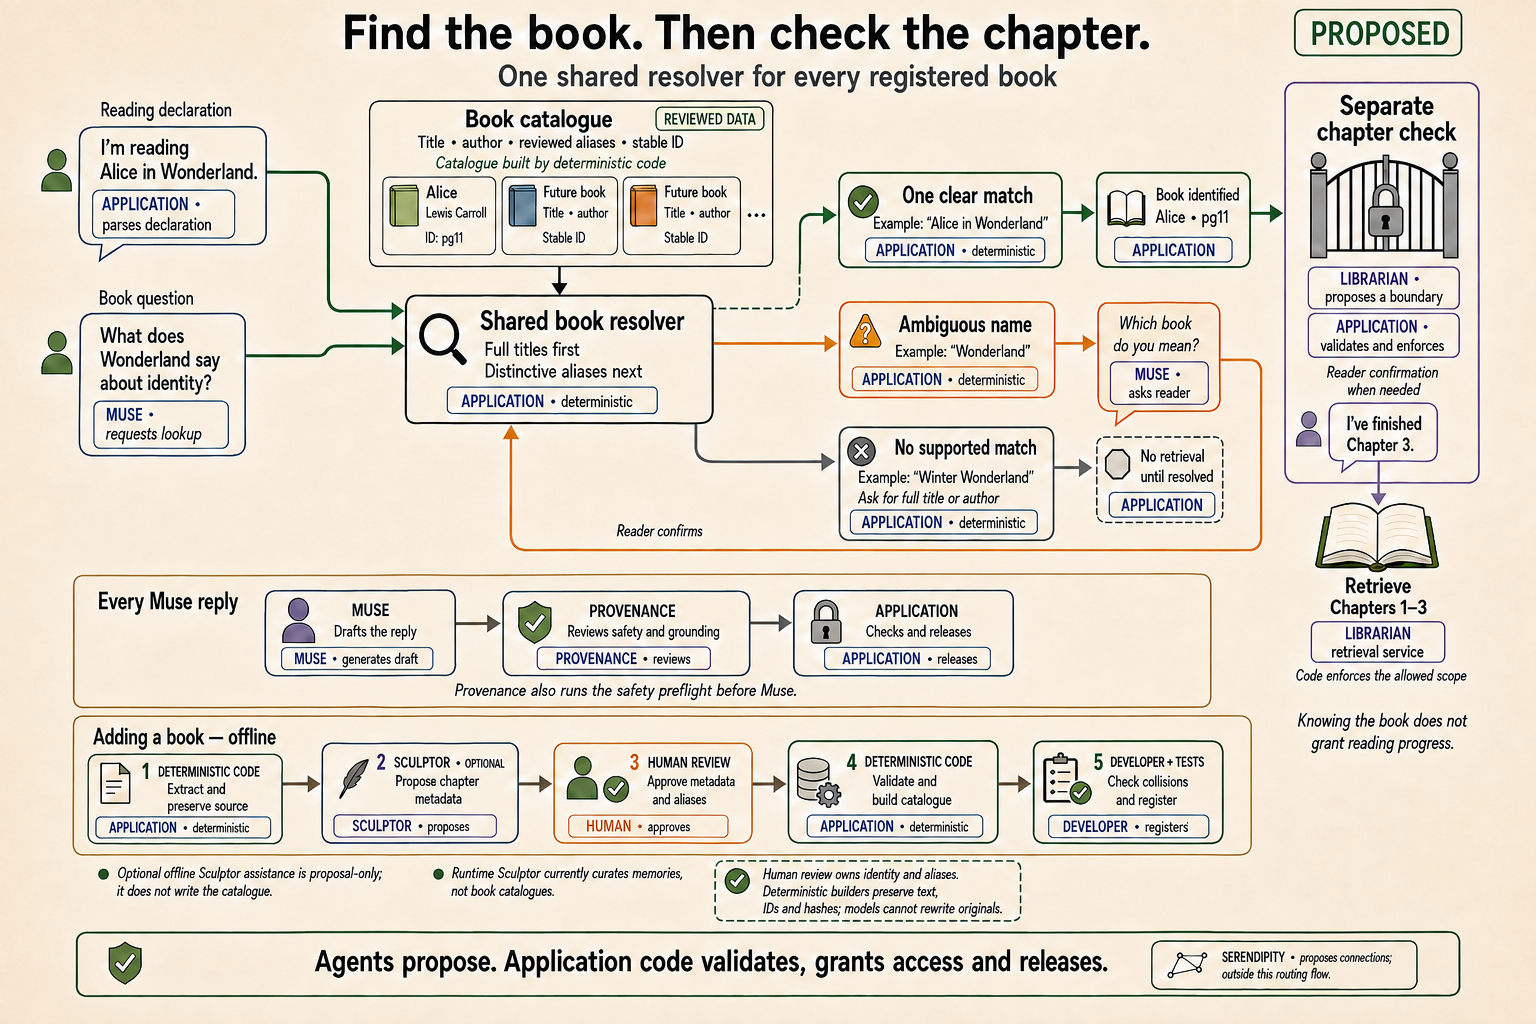
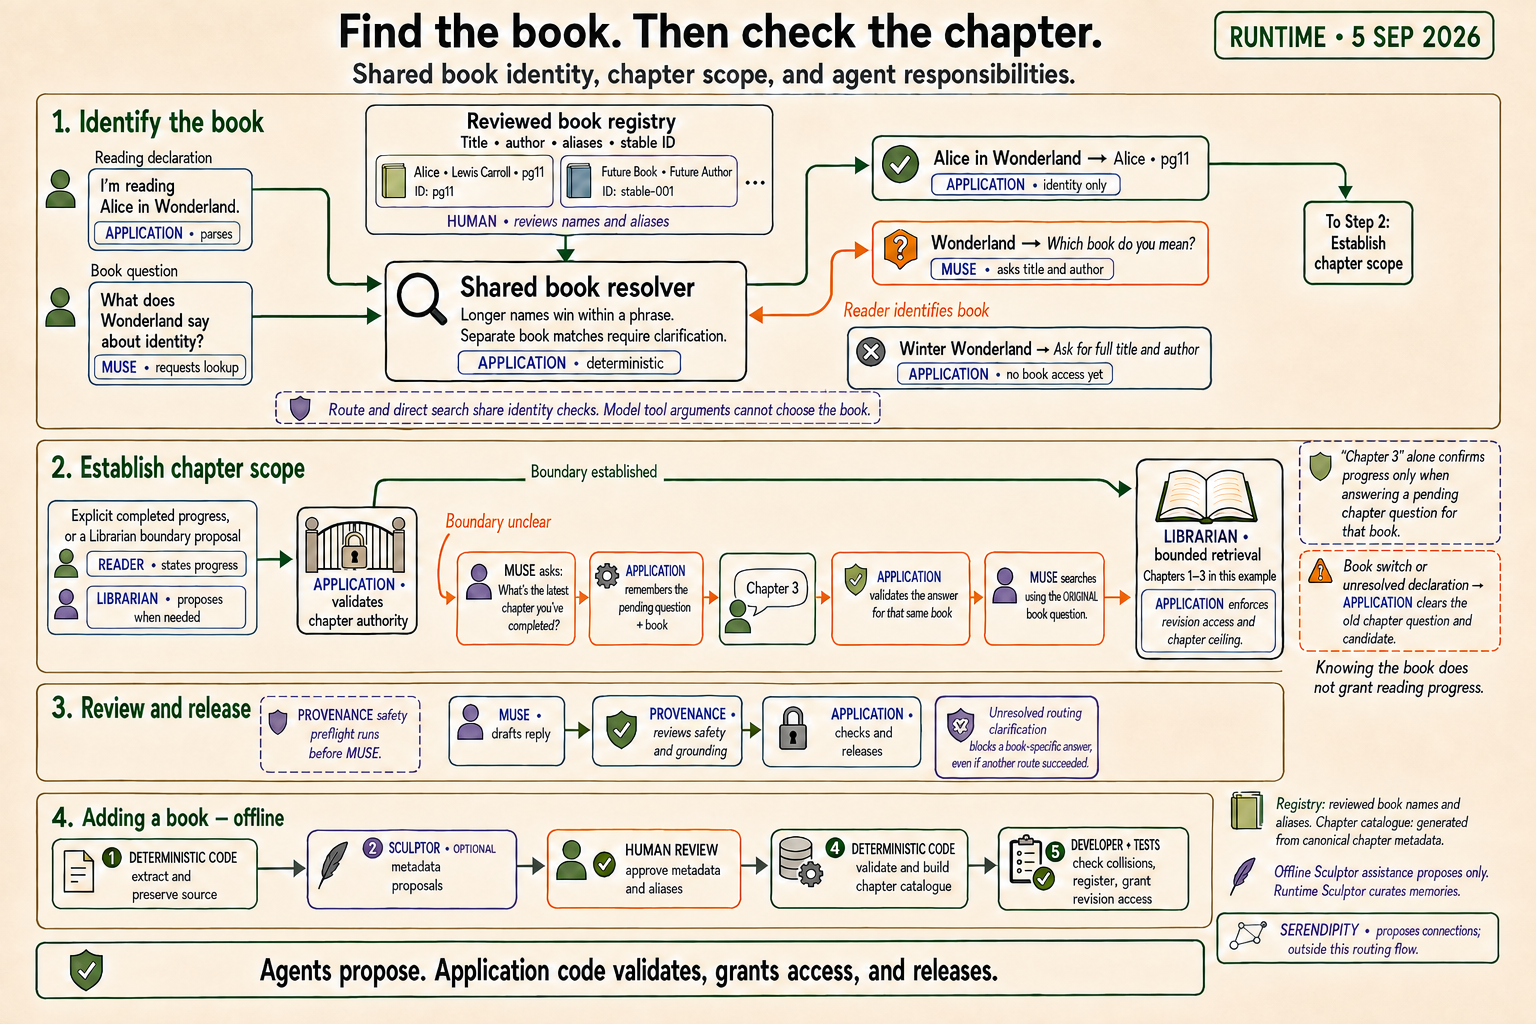
docs: refresh book routing and clarification diagram

diff --git a/docs/book-registration.md b/docs/book-registration.md
@@ -96,9 +96,10 @@ arguments cannot select the book by themselves.
 
 ![Shared book resolution and agent responsibilities](images/book-identity-and-agent-responsibilities.png)
 
-This diagram comes from the design discussion; its "Proposed" label predates
-the runtime resolver implementation. The offline Sculptor step describes
-optional metadata proposals for human review.
+This diagram reflects the runtime flow as of 5 September 2026, including
+chapter clarification carryover and application-owned identity, session-state,
+and release checks. The separate offline Sculptor step describes optional
+metadata proposals for human review.
 
 | Owner | Responsibility |
 |---|---|
